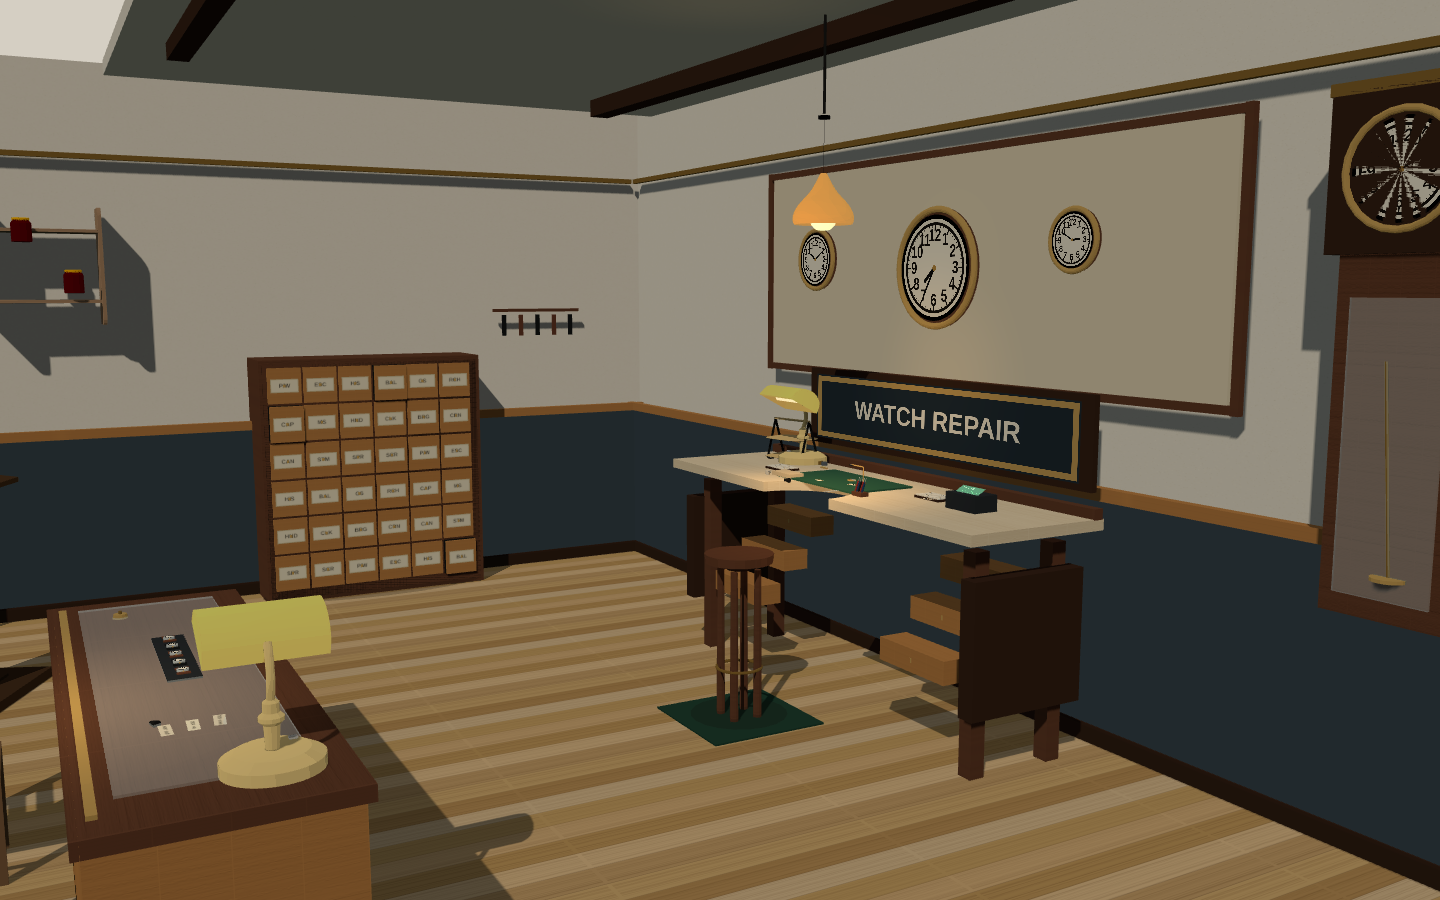
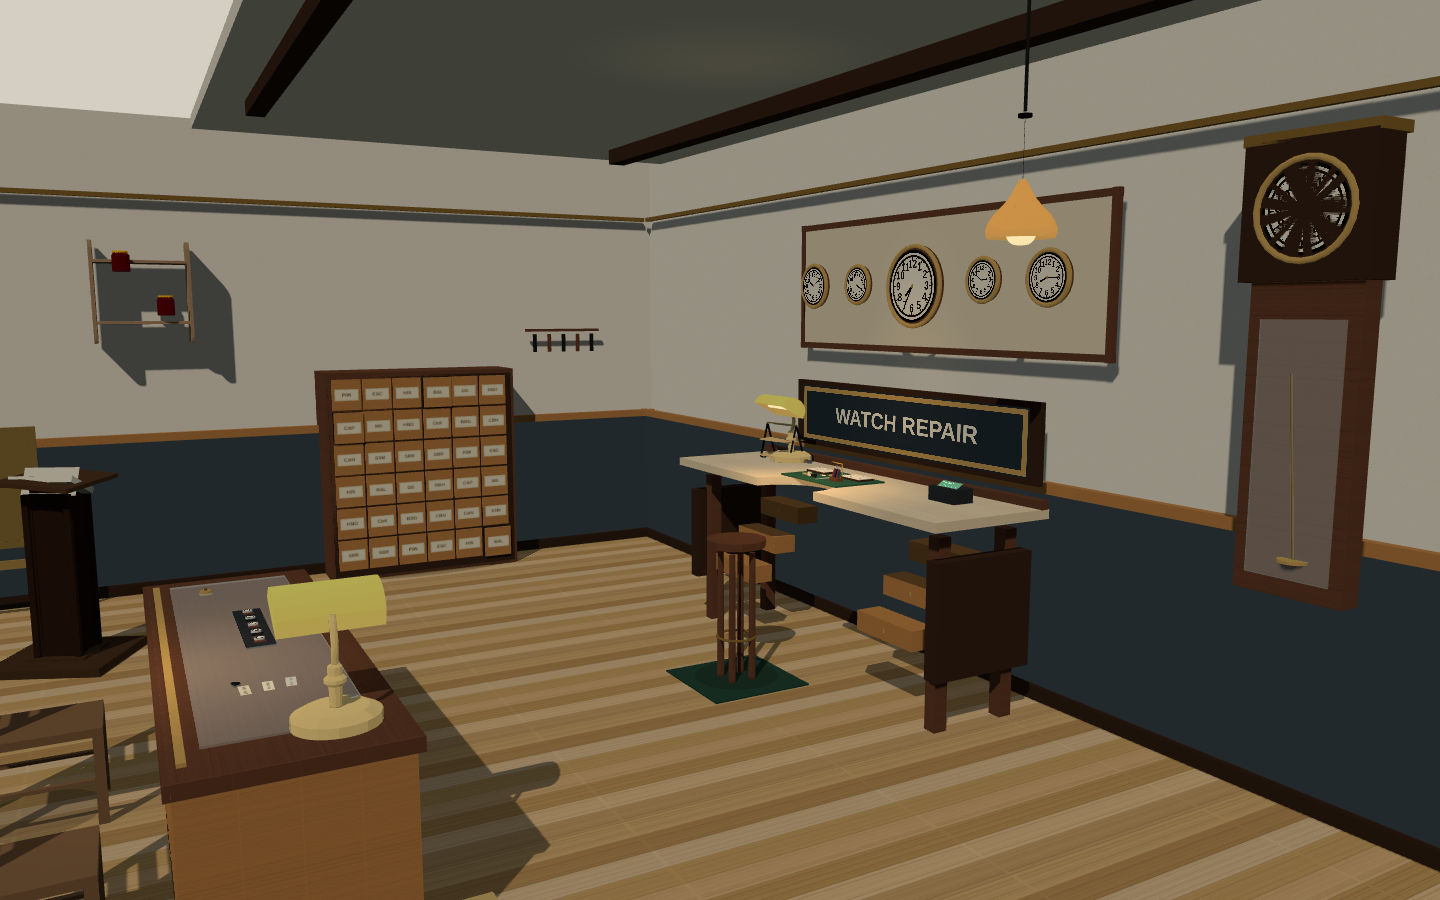
Fill the baize and reframe the watchmaker default view.
Put the trays, oil cups, screwdrivers, and tags on the cloth inside the close camera. Tighten the clock panel to a row of five dials, and include the waiting bench and the full longcase in the establishing shot.

diff --git a/experiments/indoor-20261113/watchmaker/watchmaker.js b/experiments/indoor-20261113/watchmaker/watchmaker.js
@@ -596,11 +596,13 @@ function makeShell(layout) {
   addBox(g, 0.028, 0.03, D - 0.3, brassDark, trimX, 2.68, 0);
 
   const fieldZ = trimZ + 0.02;
-  flat(addBox(g, 3.15, 1.05, 0.02, toon('#e7dcc6'), -1.15, 2.02, fieldZ));
-  addBox(g, 3.22, 0.035, 0.03, walnut, -1.15, 2.56, fieldZ);
-  addBox(g, 3.22, 0.035, 0.03, walnut, -1.15, 1.48, fieldZ);
-  addBox(g, 0.035, 1.12, 0.03, walnut, -2.76, 2.02, fieldZ);
-  addBox(g, 0.035, 1.12, 0.03, walnut, 0.46, 2.02, fieldZ);
+  const fieldX = -1.05;
+  const fieldY = 2.08;
+  flat(addBox(g, 2.4, 0.7, 0.02, toon('#e7dcc6'), fieldX, fieldY, fieldZ));
+  addBox(g, 2.48, 0.035, 0.03, walnut, fieldX, fieldY + 0.365, fieldZ);
+  addBox(g, 2.48, 0.035, 0.03, walnut, fieldX, fieldY - 0.365, fieldZ);
+  addBox(g, 0.035, 0.77, 0.03, walnut, fieldX - 1.22, fieldY, fieldZ);
+  addBox(g, 0.035, 0.77, 0.03, walnut, fieldX + 1.22, fieldY, fieldZ);
 
   const soffit = addBox(g, W * 0.9, 0.08, 3.5, plaster, -0.2, H - 0.06, -2.05);
   flat(soffit);
@@ -638,8 +640,10 @@ function makeProcedural(layout) {
 
   const frontZ = bench.z + bench.d / 2;
   addBox(g, bench.w, 0.045, 0.045, walnut, bench.x, top + 0.02, bench.z - bench.d / 2 + 0.03);
-  addBox(g, 0.62, 0.008, 0.34, baize, bench.x - 0.08, top + 0.006, bench.z + 0.02);
-  addBox(g, 0.16, 0.02, 0.08, toon('#d8c4a4'), bench.x - 0.34, top + 0.016, bench.z + 0.16);
+  const cx = bench.x - 0.02;
+  const cz = bench.z + 0.02;
+  addBox(g, 0.52, 0.008, 0.32, baize, cx, top + 0.006, cz);
+  addBox(g, 0.16, 0.02, 0.08, toon('#d8c4a4'), bench.x - 0.72, top + 0.016, bench.z - 0.18);
 
   const legY = 0.46;
   for (const [lx, lz] of [[-1.05, -0.22], [1.05, -0.22], [-1.05, 0.18], [1.05, 0.18]]) {
@@ -661,20 +665,20 @@ function makeProcedural(layout) {
   makerStool(g, stool.x, stool.z, stool.seat);
 
   const cloth = top + 0.014;
-  movement(g, bench.x - 0.02, cloth, bench.z + 0.01);
-  loupeStand(g, bench.x - 0.02, cloth, bench.z + 0.01);
-  partsTray(g, bench.x - 0.58, top, bench.z + 0.04);
-  partsTray(g, bench.x + 0.5, top, bench.z - 0.06);
-  screwdrivers(g, bench.x + 0.28, top, bench.z + 0.18);
-  oilCups(g, bench.x - 0.52, top, bench.z - 0.16);
-  handLoupe(g, bench.x - 0.22, top, bench.z + 0.24);
-  tweezers(g, bench.x + 0.12, top, bench.z + 0.22);
-  pegwood(g, bench.x + 0.16, top, bench.z - 0.16);
-  dustBlower(g, bench.x - 0.46, top, bench.z + 0.2);
-  timingMachine(g, bench.x + 0.78, top, bench.z - 0.02);
-  serviceTag(g, bench.x - 0.1, cloth + 0.002, bench.z + 0.14, '2824', -0.15);
-  serviceTag(g, bench.x + 0.08, cloth + 0.002, bench.z + 0.08, '7S26', 0.25);
-  serviceTag(g, bench.x + 0.55, top + 0.014, bench.z + 0.02, '6497', 0.35);
+  movement(g, cx - 0.02, cloth, cz - 0.02);
+  loupeStand(g, cx - 0.02, cloth, cz - 0.02);
+  partsTray(g, cx - 0.16, cloth, cz - 0.05);
+  partsTray(g, cx + 0.15, cloth, cz - 0.06);
+  screwdrivers(g, cx + 0.14, cloth, cz + 0.07);
+  oilCups(g, cx - 0.15, cloth, cz + 0.08);
+  handLoupe(g, cx - 0.04, cloth, cz + 0.09);
+  tweezers(g, cx + 0.04, cloth, cz + 0.09);
+  pegwood(g, cx + 0.06, cloth, cz - 0.1);
+  dustBlower(g, cx - 0.08, cloth, cz + 0.09);
+  timingMachine(g, bench.x + 0.82, top, bench.z - 0.08);
+  serviceTag(g, cx - 0.05, cloth + 0.002, cz + 0.02, '2824', -0.2);
+  serviceTag(g, cx + 0.05, cloth + 0.002, cz + 0.04, '7S26', 0.15);
+  serviceTag(g, cx + 0.01, cloth + 0.002, cz - 0.09, '6497', 0.1);
   for (let i = 0; i < 4; i++) {
     addCyl(g, 0.016, 0.016, 0.018, i % 2 ? steelDark : brassDark, bench.x - 0.72 + i * 0.045, top + 0.01, bench.z - 0.22, 12);
   }
@@ -710,9 +714,11 @@ function makeProcedural(layout) {
   }
 
   const clocks = [
-    [-2.15, 2.08, 0.16, 10, 10],
-    [-1.15, 2.02, 0.28, 7, 35],
-    [-0.28, 2.12, 0.13, 2, 50],
+    [-2.02, 2.08, 0.13, 10, 10],
+    [-1.58, 2.08, 0.11, 4, 20],
+    [-1.08, 2.06, 0.22, 7, 35],
+    [-0.55, 2.08, 0.11, 2, 50],
+    [-0.12, 2.08, 0.13, 8, 15],
   ];
   const wallZ = -layout.meta.room.depth / 2 + 0.24;
   for (const [x, y, radius, hh, mm] of clocks) roundClock(g, x, y, wallZ, radius, hh, mm);
@@ -749,12 +755,12 @@ function makeProcedural(layout) {
   addCyl(g, 0.006, 0.006, 0.012, brassDark, counter.x - 0.85, ct + 0.024, counter.z + 0.1, 8);
 
   signBoard(g, -1.15, 1.3, -layout.meta.room.depth / 2 + 0.26);
-  addCyl(g, 0.007, 0.007, 0.42, ink, -1.2, 2.9, -2.95, 6);
+  addCyl(g, 0.007, 0.007, 0.42, ink, 0.35, 2.9, -2.9, 6);
 
   contact(g, bench.x, -2.52, 0.22, 0.22);
   contact(g, -1.15, 0.58, 0.22, 0.22);
   contact(g, 0.05, 0.58, 0.22, 0.22);
-  contact(g, 2.55, 0.75, 0.85, 0.28);
+  contact(g, 1.72, -0.35, 0.85, 0.28);
   contact(g, 3.9, 1.45, 0.34, 0.34);
   contact(g, layout.meta.anchors.longcase.x, layout.meta.anchors.longcase.z, 0.28, 0.2);
   contact(g, layout.meta.anchors.pedestal.x, layout.meta.anchors.pedestal.z, 0.36, 0.36);

diff --git a/experiments/indoor-20261113/watchmaker/QA.md b/experiments/indoor-20261113/watchmaker/QA.md
@@ -12,9 +12,9 @@ The floor is one board texture, about 12 cm to the plank, with grain along the l
 
 ## Shots
 
-- `shots/toon_default.png` — bench, wooden stool, counter with two chairs and a row of small watches, parts cabinet, strap rail, clock wall, and regulator. The sign reads WATCH REPAIR. The longcase is cut by the right edge. Floor grain is narrow. Wall plaster has no rectangular bands. The lamp and stool throw soft shadows.
-- `shots/toon_corner.png` — the same sign reads WATCH REPAIR from this side. Clock numerals and hands are legible on the large dial. Cabinet labels, jars, bench, and stool are in frame. The longcase is only an edge.
-- `shots/toon_close.png` — overhead on the baize. The belly bite is a semicircle. A brass movement sits under the loupe, with a soft shadow rather than a stair-step. Tags read 2824 and 7S26. Trays, oil cups, and screwdrivers sit on the maple. Grain lines are fine.
+- `shots/toon_default.png` — sign reads WATCH REPAIR. The bench, wooden stool, counter, two customer chairs, waiting bench, regulator, and the full longcase are in frame. The clock panel is a tight row of five dials. The parts cabinet is cut on the left. Wall plaster has no rectangular bands. Shadows stay soft.
+- `shots/toon_corner.png` — the same sign reads WATCH REPAIR. The five dials, cabinet, jars, bench, and stool are in frame. The longcase is the regulator’s neighbor and is cropped by the right edge of this camera.
+- `shots/toon_close.png` — the baize holds two parts trays, oil cups, screwdrivers, tweezers, a dust blower, the movement, the loupe, and tags reading 2824, 7S26, and 6497. The belly bite is the near semicircle. The loupe shadow is soft.
 - `shots/unlit_default.png` — same camera as the default, `MeshBasicMaterial`. No shadow map. Slate, maple, walnut, oak, and the white dials still separate. The sign and the clock numerals remain readable.
 
 ## Checks
@@ -25,4 +25,4 @@ The floor is one board texture, about 12 cm to the plank, with grain along the l
 
 ## Still limited
 
-Individual wheels inside the movement are a few millimetres. The close shot shows the plate, a bridge, and the stem, not a full gear train. Drawer abbreviations are readable on the cabinet in the establishing view and are still short codes. Screws in the trays are slightly enlarged so the close camera can see them. The right edge of the default frame clips the longcase. See `refs/GAP.md`.
+Individual wheels inside the movement are a few millimetres. The close shot shows the plate, a bridge, and the stem, not a full gear train. Drawer abbreviations are short codes. Screws in the trays are slightly enlarged so the close camera can see them. The default frame crops the left edge of the parts cabinet. See `refs/GAP.md`.

diff --git a/experiments/indoor-20261113/watchmaker/refs/GAP.md b/experiments/indoor-20261113/watchmaker/refs/GAP.md
@@ -20,4 +20,5 @@ Still weak:
 - The timing instrument is a box and a canvas, not a Witschi machine. There is no lathe, cleaning machine, or staking set.
 - Clock dials share one numeral texture. Hands differ. No seconds bit except the regulator’s pendulum, which does not swing.
 - The key light uses a 4096 soft PCF shadow map fit to the room, with a small depth bias and 3 cm of normal bias, so the bench receives a shadow without the old hard-map stair steps. Walls receive that shadow. They do not cast. Ceiling beams are kept out of the map so they do not stripe the plaster. Contact discs remain under the feet. There is no ambient-occlusion pass in the vendored toon path.
+- The default frame includes the sign, bench, counter, waiting bench, and the full longcase. The parts cabinet is cropped on the left of that camera. The corner camera still crops the longcase.
 - The wooden pedestal used as a mantel stand shipped as a solid column, not a glass vitrine.
